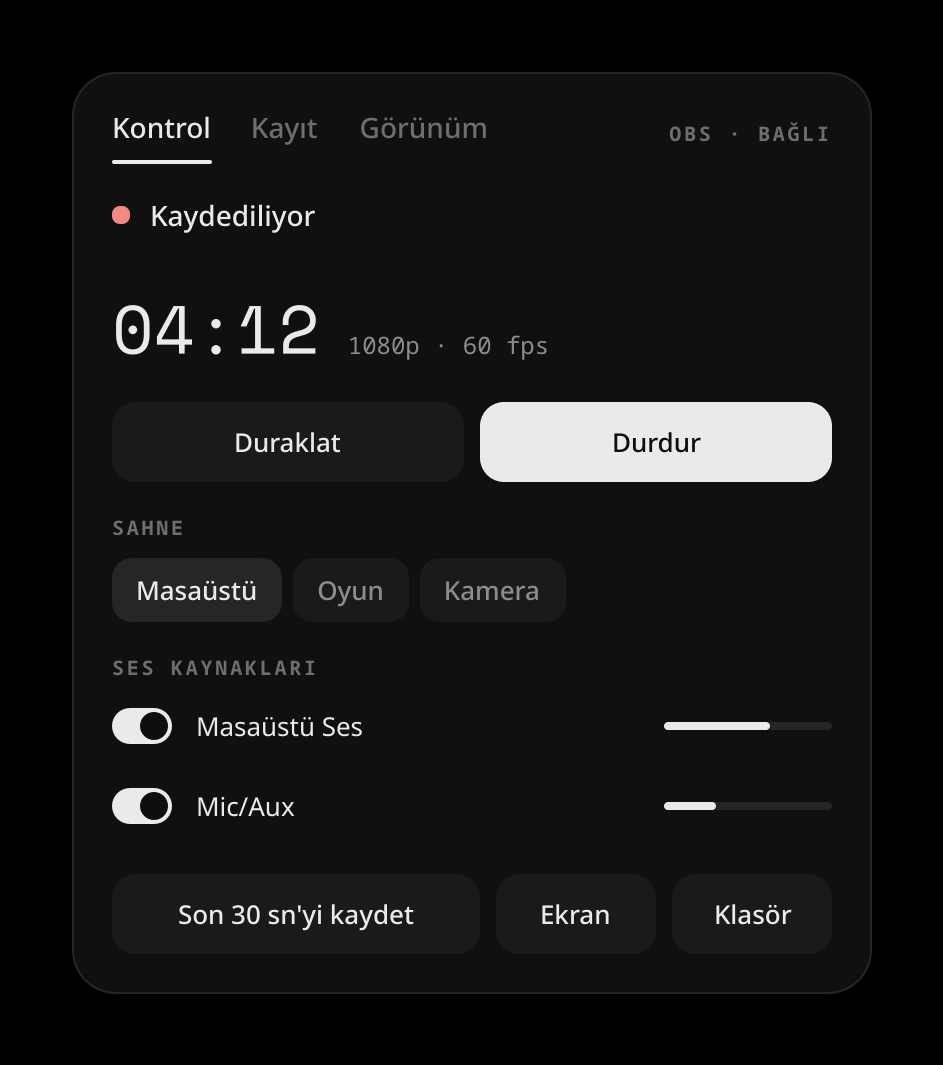
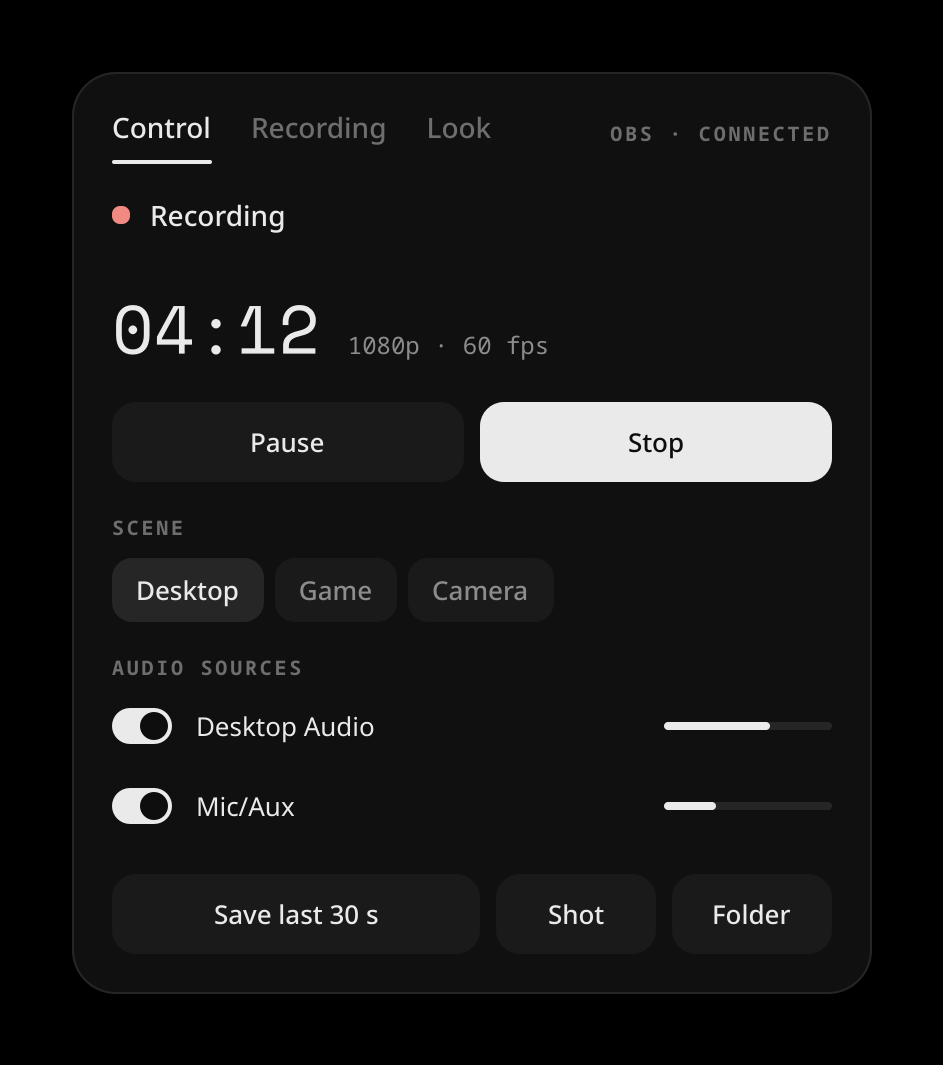
Ekran görüntüleri: İngilizce ve Türkçe, koyu ve açık tema
shots.sh dil ve tema ikilisi için 12'şer görüntü ve dört kapak üretiyor
(screenshots/, light/, tr/, tr/light/). Harness örnek verileri dile göre değişiyor.

diff --git a/tools/shots/harness/shell.qml b/tools/shots/harness/shell.qml
@@ -12,6 +12,7 @@ ShellRoot {
     readonly property string out: Quickshell.env("OUT")
     property int step: -1
 
+    readonly property bool tr: Quickshell.env("SHOTLANG") === "tr"
     readonly property bool light: Quickshell.env("THEME") === "white"
     readonly property color bg: light ? "#ffffff" : "#000000"
 
@@ -40,9 +41,9 @@ ShellRoot {
 
     // What the panel would be told by OBS.
     readonly property var infoBase: ({
-            scenes: ["Masaüstü", "Oyun", "Kamera"],
-            scene: "Masaüstü",
-            inputs: [{ name: "Masaüstü Ses", muted: false }, { name: "Mic/Aux", muted: false }],
+            scenes: root.tr ? ["Masaüstü", "Oyun", "Kamera"] : ["Desktop", "Game", "Camera"],
+            scene: root.tr ? "Masaüstü" : "Desktop",
+            inputs: [{ name: root.tr ? "Masaüstü Ses" : "Desktop Audio", muted: false }, { name: "Mic/Aux", muted: false }],
             video: { fps: 60, base_w: 1920, base_h: 1080, out_w: 1920, out_h: 1080 },
             record: { dir: "/home/you/Videos/obscura", filename: "%CCYY-%MM-%DD %hh-%mm-%ss", format: "mkv", mode: "SimpleOutput", example: "2026-10-09 22-20-14.mkv", exists: false, overwrite: false },
             replay: { enabled: true, active: true, seconds: 30 },
@@ -58,8 +59,11 @@ ShellRoot {
         S.justSaved = false;
         S.browsing = false;
         S.info = Object.assign({}, root.infoBase, extra || {});
-        S.levels = { "Masaüstü Ses": 0.62, "Mic/Aux": 0.3 };
-        S.cfg = { timer_font: "Space Mono", timer_size: 18, button_style: "circle", notify_saved: true, copy_path: false, obs_port: 0 };
+        const lv = {};
+        lv[root.infoBase.inputs[0].name] = 0.62;
+        lv["Mic/Aux"] = 0.3;
+        S.levels = lv;
+        S.cfg = { timer_font: "Space Mono", timer_size: 18, button_style: "circle", notify_saved: true, copy_path: false, obs_port: 0, language: root.tr ? "tr" : "en" };
     }
 
     readonly property var shots: [

diff --git a/tools/shots/compose.py b/tools/shots/compose.py
@@ -11,9 +11,12 @@ import numpy as np
 raws, docs = sys.argv[1], sys.argv[2]
 cache = os.environ["SHOTS_CACHE"]
 PAD = 72  # px at 2x
+TAGLINE = {"en": "Recording is one quiet button.", "tr": "Kayıt almak, tek bir sessiz düğme."}
 THEMES = {
-    "black": dict(bg=(0, 0, 0), ink=(237, 237, 237), mid=(163, 163, 163), low=(110, 110, 110), out="screenshots", cover="cover.png"),
-    "white": dict(bg=(255, 255, 255), ink=(17, 17, 19), mid=(85, 85, 92), low=(138, 138, 146), out="screenshots/light", cover="cover-light.png"),
+    ("en", "black"): dict(bg=(0, 0, 0), ink=(237, 237, 237), mid=(163, 163, 163), low=(110, 110, 110), out="screenshots", cover="cover.png"),
+    ("en", "white"): dict(bg=(255, 255, 255), ink=(17, 17, 19), mid=(85, 85, 92), low=(138, 138, 146), out="screenshots/light", cover="cover-light.png"),
+    ("tr", "black"): dict(bg=(0, 0, 0), ink=(237, 237, 237), mid=(163, 163, 163), low=(110, 110, 110), out="screenshots/tr", cover="cover-tr.png"),
+    ("tr", "white"): dict(bg=(255, 255, 255), ink=(17, 17, 19), mid=(85, 85, 92), low=(138, 138, 146), out="screenshots/tr/light", cover="cover-tr-light.png"),
 }
 
 
@@ -24,8 +27,8 @@ def trim(img, bg, pad=PAD):
     return img.crop(box)
 
 
-for theme, t in THEMES.items():
-    raw = os.path.join(raws, theme)
+for (lang, theme), t in THEMES.items():
+    raw = os.path.join(raws, lang, theme)
     shots = {}
     for name in sorted(os.listdir(raw)):
         if name.endswith(".png"):
@@ -48,7 +51,7 @@ for theme, t in THEMES.items():
     logo = Image.open(os.path.join(docs, "assets", "logo-512.png")).convert("RGBA").resize((176, 176), Image.LANCZOS)
     cover.paste(logo, (130, 150), logo)
     d.text((130, 360), "obscura", font=serif, fill=t["ink"])
-    d.text((136, 590), "Recording is one quiet button.", font=sans, fill=t["mid"])
+    d.text((136, 590), TAGLINE[lang], font=sans, fill=t["mid"])
     d.text((136, 664), "OBS Studio · Quickshell · Hyprland", font=small, fill=t["low"])
 
     y = 760
@@ -59,4 +62,4 @@ for theme, t in THEMES.items():
         cover.paste(im, (60, y))
         y += im.height - 60
     cover.save(os.path.join(docs, t["cover"]), optimize=True)
-    print(theme, "cover", cover.size)
+    print(lang, theme, "cover", cover.size)
